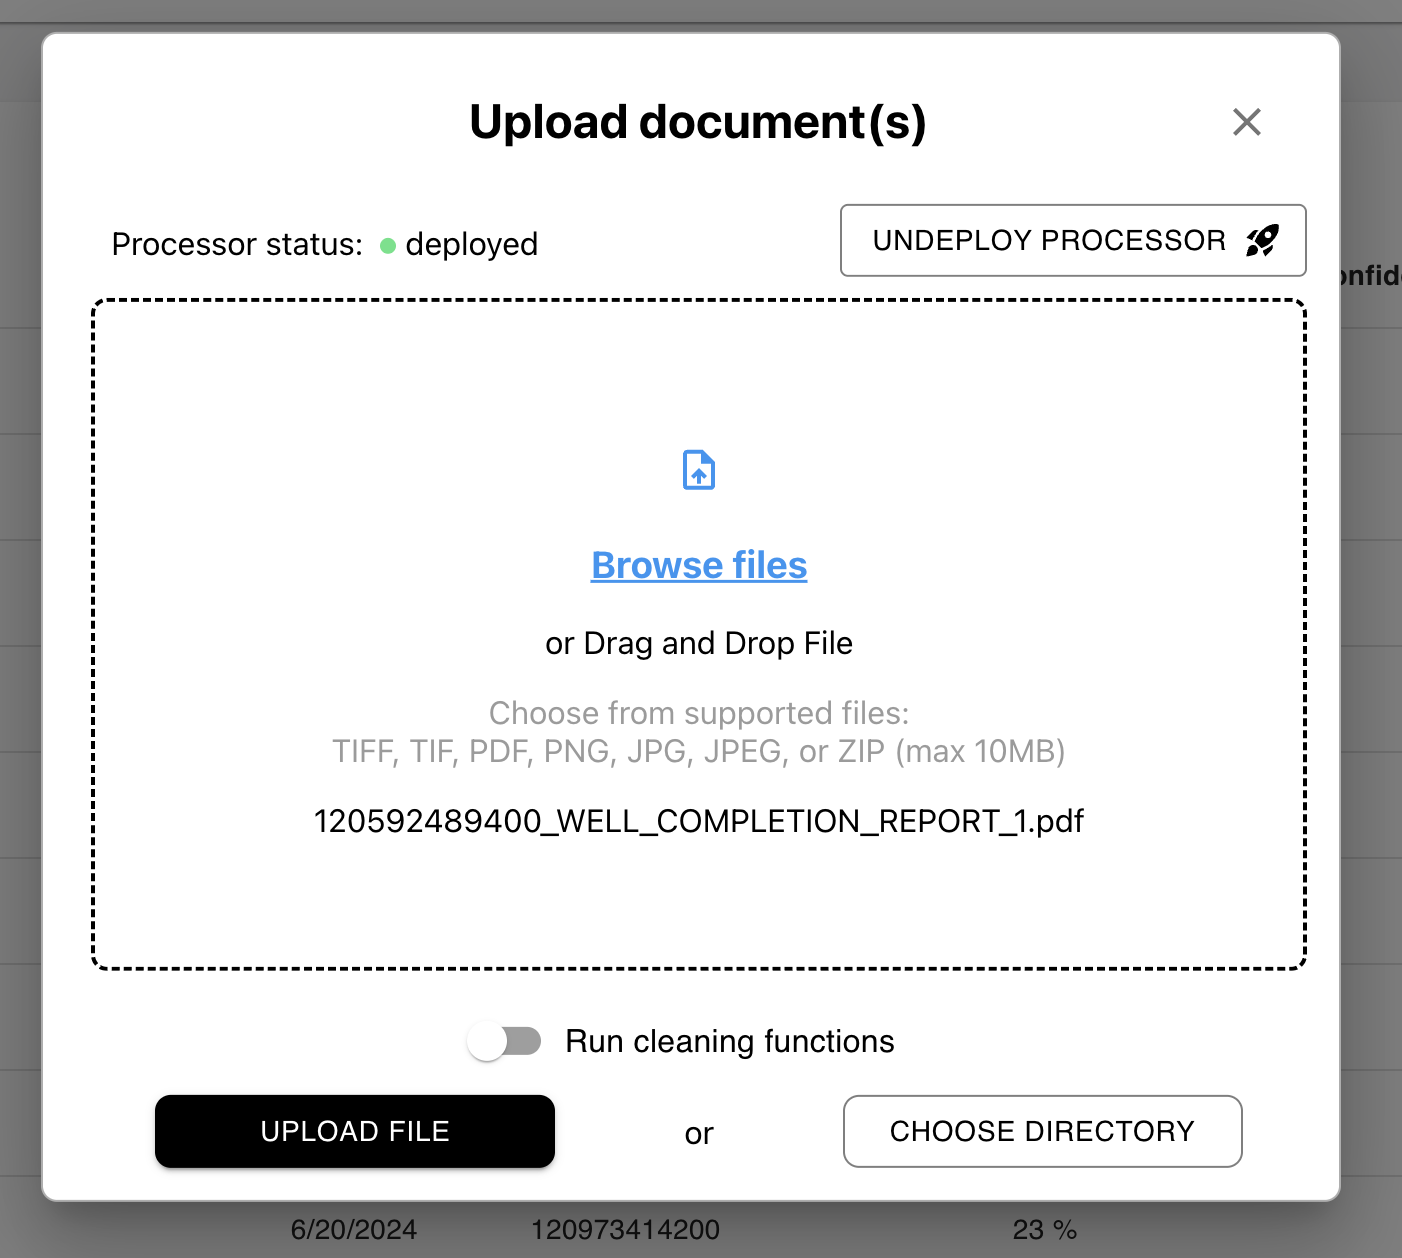
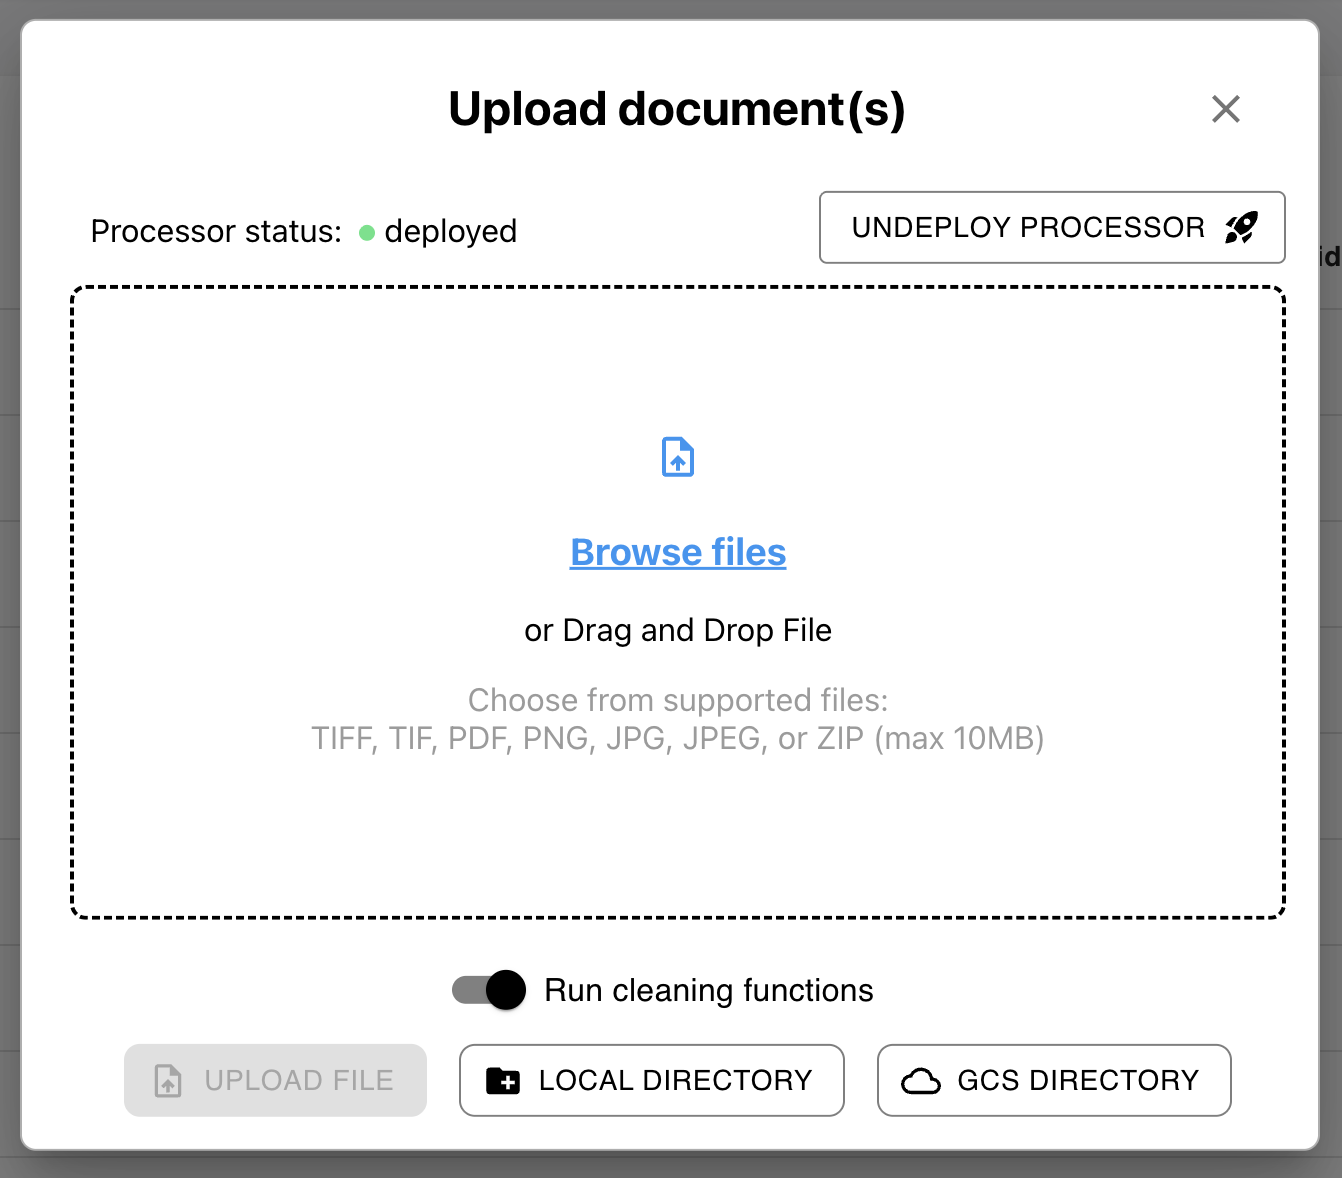
update mongo instructions to include start script, instructions on creating new user; add instructions on gcs batch upload

diff --git a/docs/src/components/InstallFeatures/Mongo.tsx b/docs/src/components/InstallFeatures/Mongo.tsx
@@ -28,7 +28,7 @@ export function HowToSetupMongo() {
 export function InitializeDatabase() {
   return (
     <div>
-      <i>It is necessary to add some initial collections to your database before running OGRRE</i>. OGRRE stores teams, authorized users, and assigned roles/permissions in the MongoDB database, which must be availabe as collections called <code>teams</code>, <code>users</code>, and <code>roles</code>. Furthermore, there must be at least one team and one user associated with that team, as well as a list of roles that are specific to OGRRE. You can create these manually, or use the python script we have provided to create these documents for you. The script can be downloaded <a href="/orphaned-wells-ui/downloads/InitializeMongoDB.py" download>here</a>. The script takes the following arguments:
+      <i>It is necessary to add some initial collections to your database before running OGRRE</i>. To easily do so, you can use the<a href="/orphaned-wells-ui/downloads/InitializeMongoDB.py" download>InitializeMongoDB.py script</a>. OGRRE stores teams, authorized users, and assigned roles/permissions in the MongoDB database, which must be availabe as collections called <code>teams</code>, <code>users</code>, and <code>roles</code>. Furthermore, there must be at least one team and one user associated with that team, as well as a list of roles that are specific to OGRRE. You can create these manually, or use the python script provided above. The script takes the following arguments:
       <ul>
         <li><b>team_name</b> (<b>-t</b>): the initial team name [<i>required</i>]</li>
         <li><b>email</b> (<b>-e</b>): email of the initial user [<i>required</i>]</li>

diff --git a/docs/docs/screenshots.jsx b/docs/docs/screenshots.jsx
@@ -7,7 +7,9 @@ import AddNewUserUrl from '@site/static/screenshots/add-new-user.png';
 import UsersPageUrl from '@site/static/screenshots/users-page.png';
 import UpdateUserRoleButtonUrl from '@site/static/screenshots/update-user-button.png';
 import UploadRecordsModalUrl from '@site/static/screenshots/upload-records-modal.png';
+import UploadDocumentUrl from '@site/static/screenshots/upload-document.png';
 import UploadDirectoryUrl from '@site/static/screenshots/upload-directory.png';
+import GcsUploadUrl from '@site/static/screenshots/GCS-upload.png';
 import SchemaViewUrl from '@site/static/screenshots/schema-view.png';
 import UploadProcessorUrl from '@site/static/screenshots/upload-processor.png';
 import EditProcessorUrl from '@site/static/screenshots/edit-processor.png';
@@ -46,8 +48,14 @@ export function UpdateUserRoleButton() {
 export function UploadRecordsModalImg() {
     return <img src={UploadRecordsModalUrl} style={imageStyle}/>;
 }
+export function UploadDocumentImg() {
+    return <img src={UploadDocumentUrl} style={imageStyle}/>;
+}
 export function UploadDirectoryImg() {
     return <img src={UploadDirectoryUrl} style={imageStyle}/>;
+}
+export function GcsUploadImg() {
+    return <img src={GcsUploadUrl} style={imageStyle}/>;
 }
 export function SchemaViewImg() {
     return <img src={SchemaViewUrl} style={imageStyle}/>;
